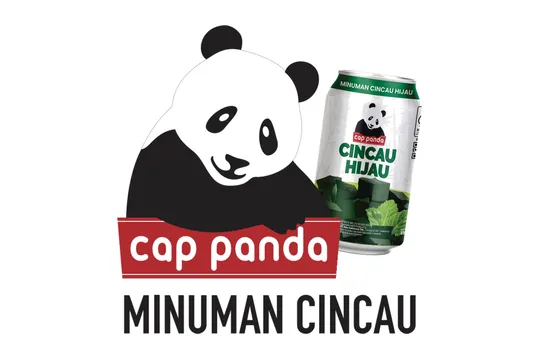
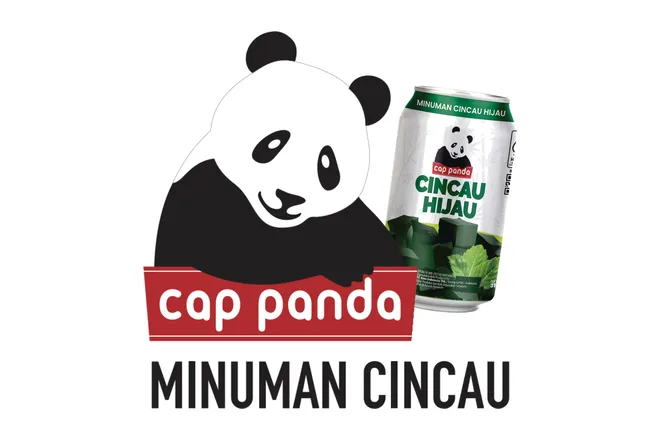
fix(sponsors): size tiles by printed page area, not price bracket
Cap Panda paid Rp 10jt, the same as the five half-page sponsors, but the
committee gave it roughly three quarters of p22 in the printed book - it
shares that page only with the Penutup text. Sizing purely by price bracket
shrank it to a half-page tile, contradicting the book.

Adds a "1/1" page class so printed area drives tile size while the tier
label still reflects what the sponsor actually signed: Cap Panda stays
Sponsor Pendukung, but renders at full-page size within that band.

Checked the remaining multi-slot pages against the same rule and they are
already consistent: p16 is eight equal 1/8 slots (all Rp 2,5jt), and on
p18/p20 the Rp 5jt sponsors sit in visibly taller cells than the Rp 2,5jt
ones, which the 1/4 and 1/8 classes already reproduce.

diff --git a/src/config/invitation.ts b/src/config/invitation.ts
@@ -41,7 +41,7 @@ export type SponsorLogo = {
   slug: string;                                          // file is /sponsors/<slug>.webp
   name: string;                                          // display + img alt
   tier: "utama" | "madya" | "pendukung" | "donatur";
-  page?: "1/2" | "1/4" | "1/8";                          // Sponsor Pendukung bracket
+  page?: "1/1" | "1/2" | "1/4" | "1/8";                   // printed page area -> tile size
 };
 
 export type SponsorDonor = { name: string; note?: string };
@@ -346,7 +346,7 @@ export const invitation = {
     { slug: "kapal-api",                      name: "Kapal Api",                                              tier: "pendukung", page: "1/2" },
     { slug: "putra-jaya",                     name: "Putra Jaya",                                             tier: "pendukung", page: "1/2" },
     { slug: "gibrig-indonesia-bersih",        name: "PT Gibrig Indonesia Bersih · Aneka Plastindo · Sushi Abe",tier: "pendukung", page: "1/2" },
-    { slug: "cap-panda",                      name: "Cap Panda",                                              tier: "pendukung", page: "1/2" },
+    { slug: "cap-panda",                      name: "Cap Panda",                                              tier: "pendukung", page: "1/1" },
 
     { slug: "kalimasadha-nusantara",          name: "Kalimasadha Nusantara",                                  tier: "pendukung", page: "1/4" },
     { slug: "aldana-mitrasarana-kita",        name: "PT Aldana Mitrasarana Kita",                             tier: "pendukung", page: "1/4" },
